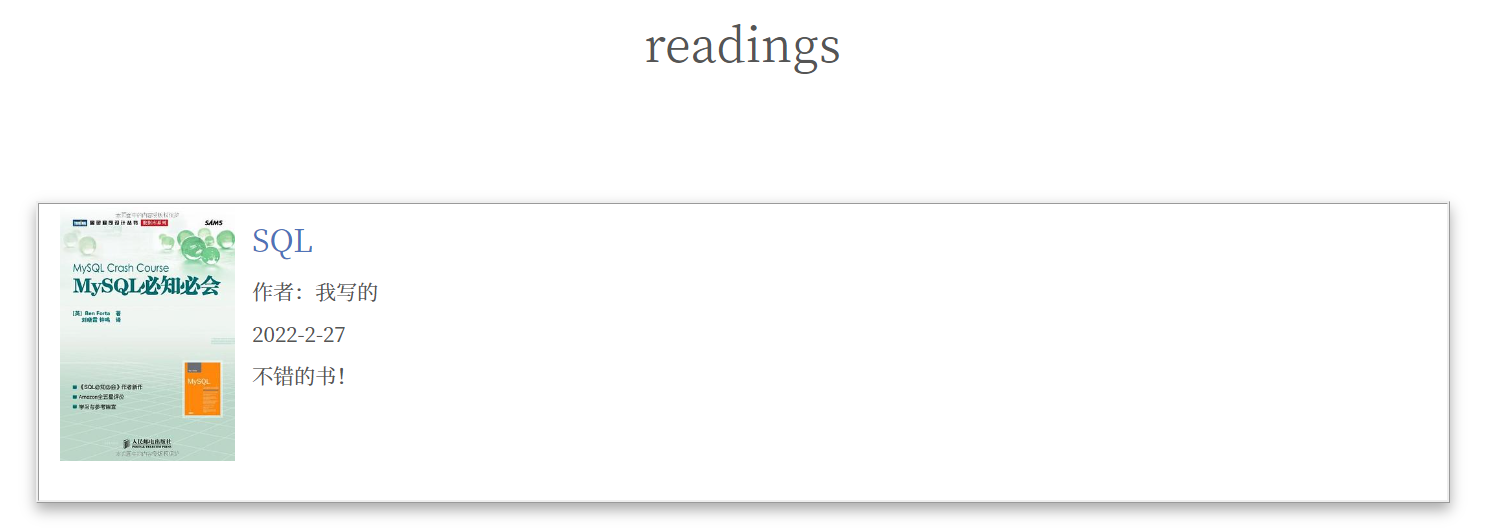
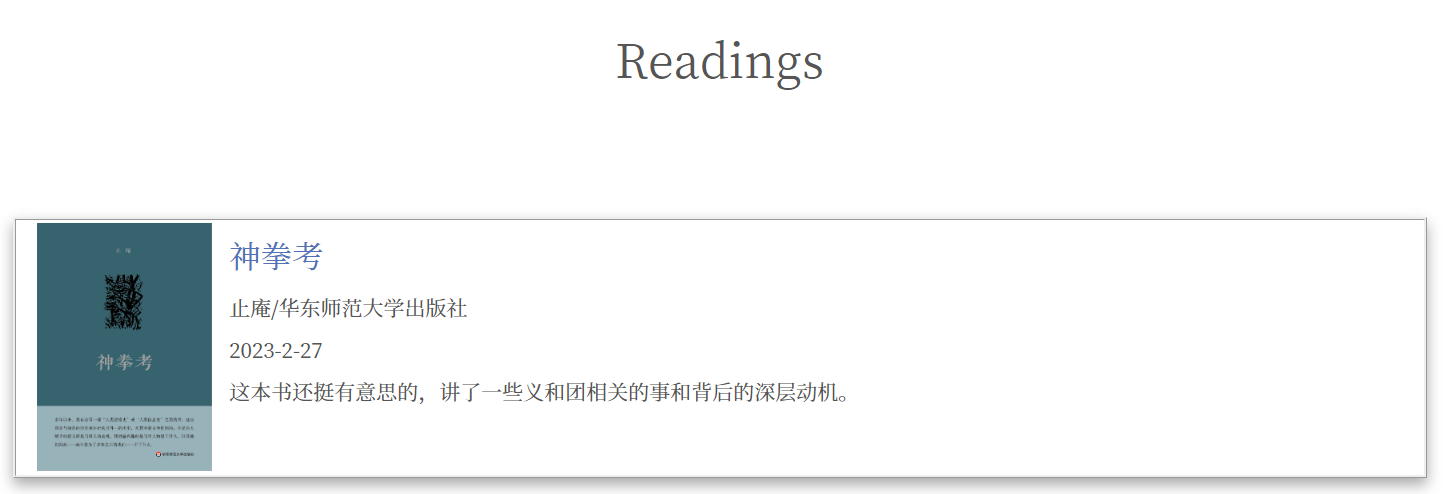
update README & index.js

Changed region(s): [[0.0, 0.3644, 0.9979, 1.0], [0.4054, 0.0607, 0.5925, 0.1822]]

diff --git a/index.js b/index.js
@@ -18,7 +18,7 @@ function tagTemplate(book_name, author_name, read_time, short_comment, pic_path)
             </div>
             <div class="content-container">
                 <div class="book-name">${book_name}</div>
-                <div class="author-name">作者：${author_name}</div>
+                <div class="author-name">${author_name}</div>
                 <div class="read-time">${read_time}</div>
                 <div class="short-comment">${short_comment}</div>
             </div>

diff --git a/README.md b/README.md
@@ -1,6 +1,6 @@
 ### Hexo-book-card
 
-在hexo page内生成读书卡片
+在hexo page内生成读书卡片(也可用于电影等等类别的卡片)
 
 #### 使用步骤
 
@@ -19,7 +19,7 @@
 (这里images/s5968156.jpg)来自[豆瓣](https://img9.doubanio.com/view/subject/s/public/s5968156.jpg)
 
 ```
-{% book_card SQL 我写的 2022-2-27 不错的书！ 'images/s5968156.jpg' %} 
+{% book_card 神拳考 '止庵/华东师范大学出版社' '2023-2-27' 这本书还挺有意思的，讲了一些义和团相关的事和背后的深层动机。 images/神拳考.jpg %}
 ```
 
 ![example](example.png)
